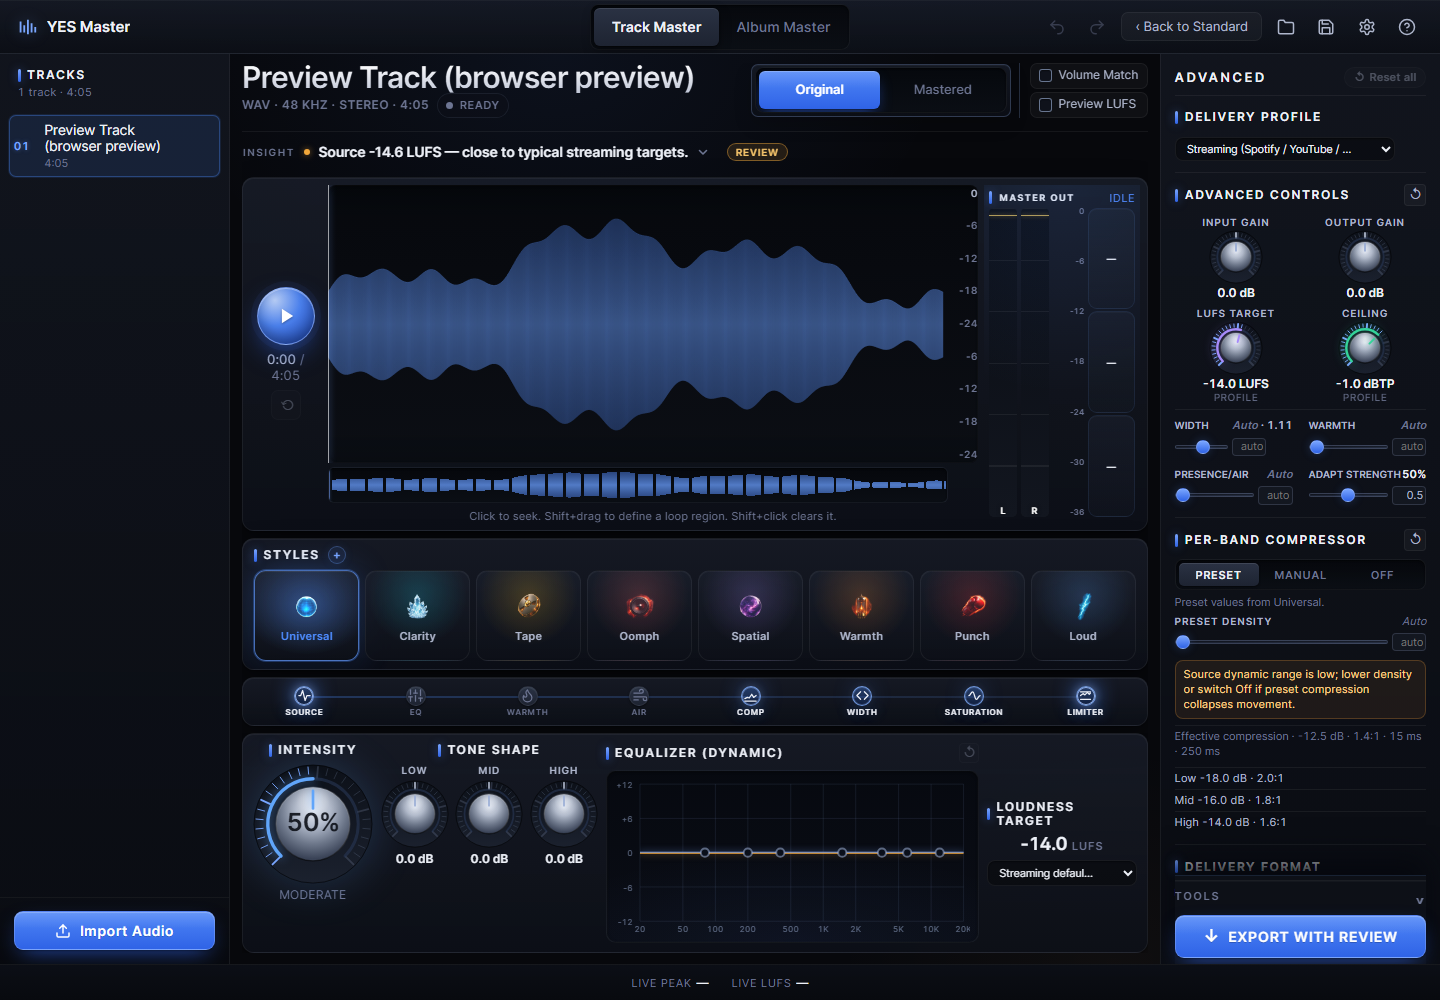
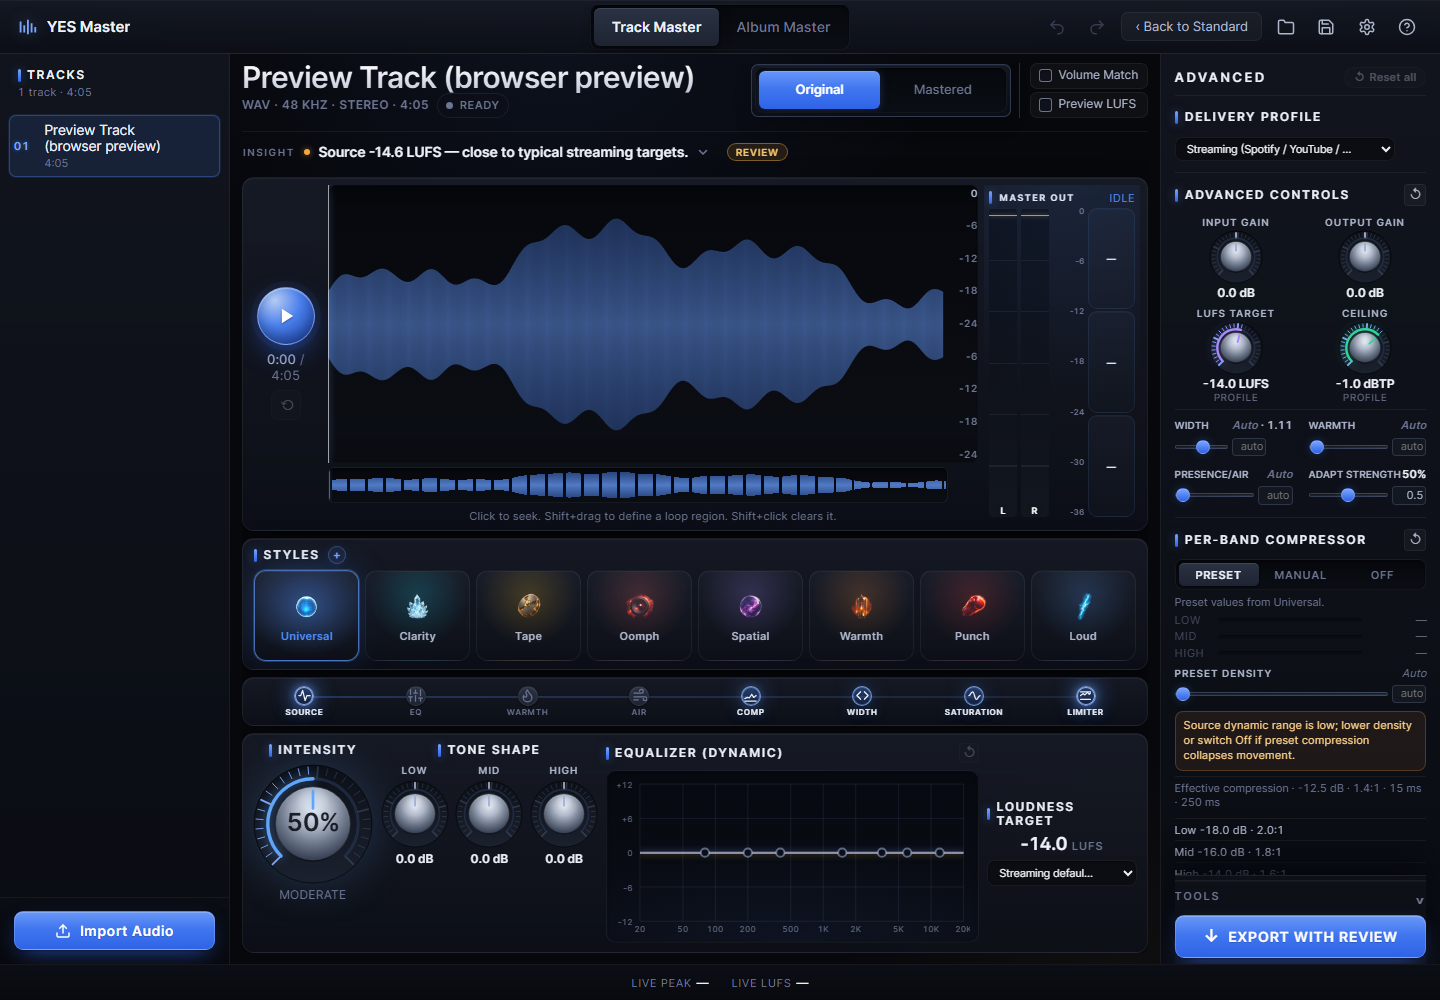
docs+assets: alive pass 1 changelog/app behavior; recapture landing proof

diff --git a/docs/CHANGELOG.md b/docs/CHANGELOG.md
@@ -12,6 +12,28 @@ Dates are milestone dates, not exact commit times.
 
 ---
 
+## 2026-08-19 — Alive pass 1: A/B flip moment, meter ballistics, live GR, console motion
+
+Plan: `docs/superpowers/plans/2026-08-19-ui-alive-pass-1.md` (Passes 2–4
+roadmap in its appendix). Presentation only — no audio-path, playhead,
+render, or export semantics changed; the L10 audio crossfade on A/B is as it
+was.
+
+- **A/B flip lands**: the selected side of Original/Mastered blooms once on
+  flip; while Mastered is audible the waveform's played span runs brighter
+  (the `.app` root now carries `data-playback-kind` / `data-playing`,
+  pinned by `App.playback-kind.test.tsx`).
+- **MASTER OUT ballistics**: rate-limited fall (24 dB/s) + peak-hold pips
+  (1 s hold, 12 dB/s decay; red above −1 dBFS). Pure helper
+  `lib/meter-ballistics.ts`, unit-tested; `hooks/useMeterBallistics.ts`.
+- **Live per-band gain reduction** in the Per-band Compressor card while the
+  master plays (`lib/gain-reduction.ts`); the playback tick had carried
+  `gr_*_db` since Phase 12.2 with no surface.
+- **Console motion**: rail + sidebar arrive with the deck on entering
+  Advanced; a clean export draws its check; Standard's ✓ pops. Every effect
+  is registered in `App.delight.test.tsx` (reduced-motion opt-out, no reflow
+  properties, named purpose).
+
 ## 2026-08-19 — Bipolar knobs, global Advanced reset, one type hierarchy
 
 - **Bipolar boost/cut knobs**: Tone Shape Low/Mid/High and the rail's

diff --git a/docs/APP_BEHAVIOR.md b/docs/APP_BEHAVIOR.md
@@ -54,7 +54,13 @@ Track Master supports:
 - Visible Save/Open Project feedback.
 - Live Master Out meters with plain Standard labels and technical Advanced
   labels/tooltips: live loudness is not the selected target, since-play LUFS is
-  the current playback run, and peak is dBFS/peak behavior.
+  the current playback run, and peak is dBFS/peak behavior. Meters have
+  real ballistics (2026-08-19): peaks fall at a controlled rate and a
+  peak-hold pip marks the highest recent peak (red above −1 dBFS). The
+  Advanced per-band compressor card shows live gain reduction per band
+  while the master plays. The Original/Mastered flip and the played span of
+  the waveform react visually to which source is audible; all such motion
+  is presentation-only and respects `prefers-reduced-motion`.
 - A first-run guide in Standard view: subtle floating coachmarks that walk a
   new user to the Original→Mastered flip, then a send-off and one Advanced
   pointer. Dismissible, never blocking, persisted under
